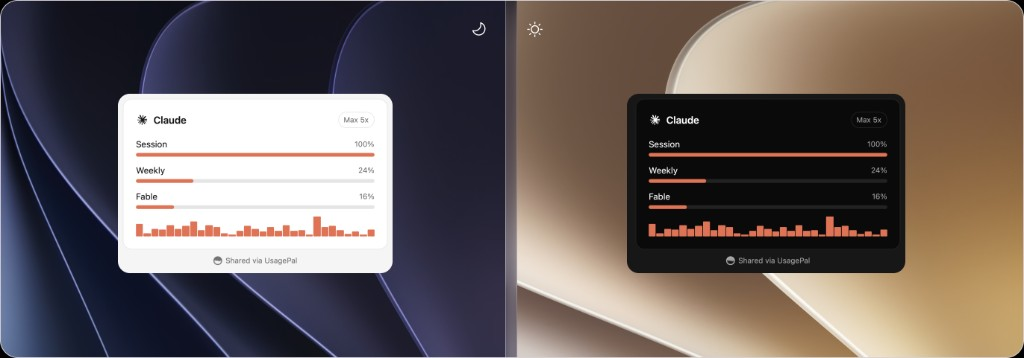
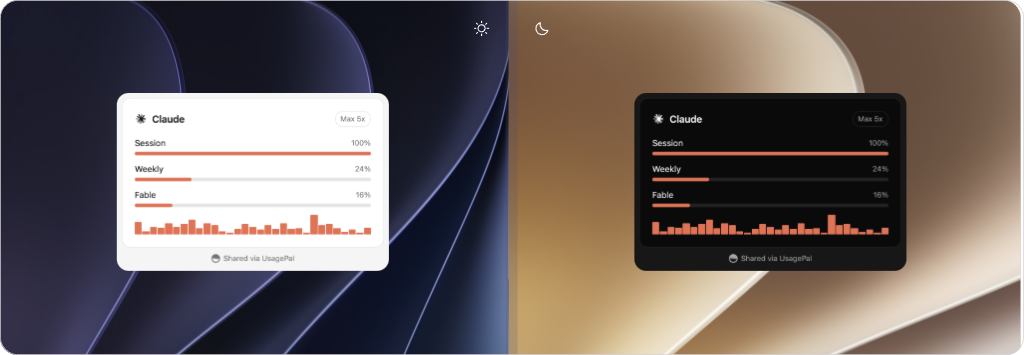
docs: use centered README screenshots

diff --git a/README.md b/README.md
@@ -10,13 +10,11 @@
 
 See your usage at a glance from your menu bar. No digging through dashboards.
 
-<p align="center">
+<div align="center">
   <img src="assets/homepage.png" alt="UsagePal home page showing Claude and Codex usage in dark and light mode" width="900" />
-</p>
-
-<p align="center">
+  <br />
   <img src="assets/share.png" alt="UsagePal share card for Claude usage in dark and light mode" width="900" />
-</p>
+</div>
 
 ## Download
 